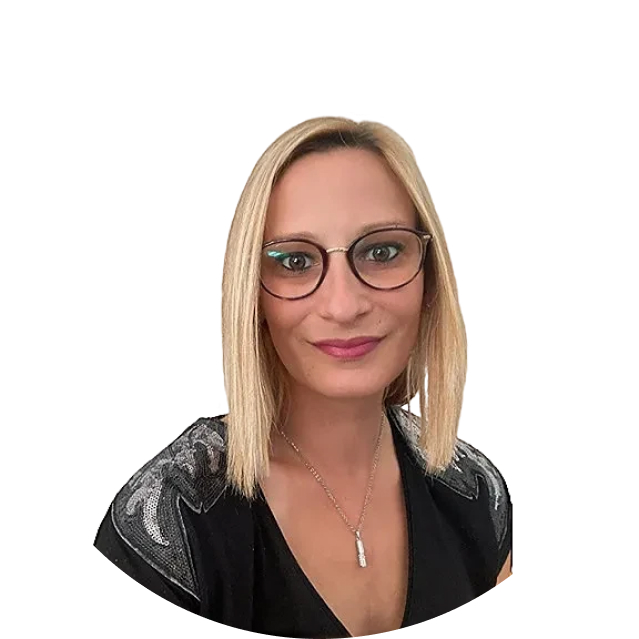
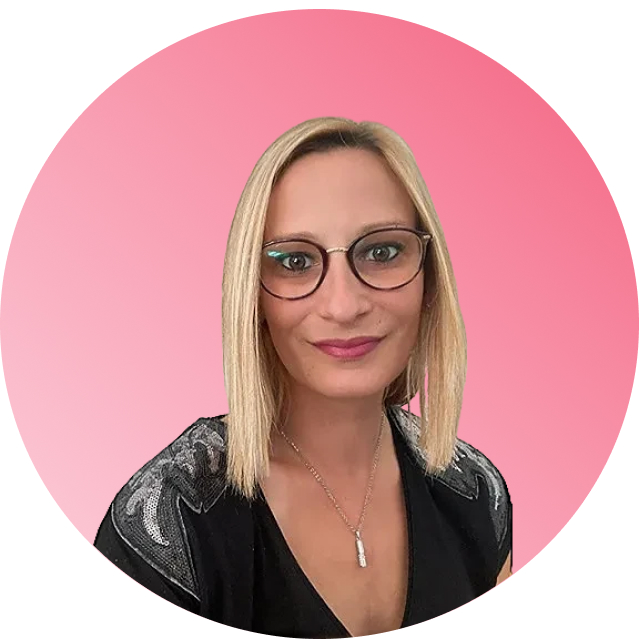
image rond rose

diff --git a/index.html b/index.html
@@ -47,7 +47,7 @@
           </div>
           <div id="item-right-hero">
             <img
-              src="./img/moi_portfolio-elisa_clipdrop-background-removal 1.jpg"
+              src="./img/moi_portfolio-elisa_clipdrop-background-removal 1 (1).jpg"
               alt="Elisa Ravinet"
             />
           </div>
